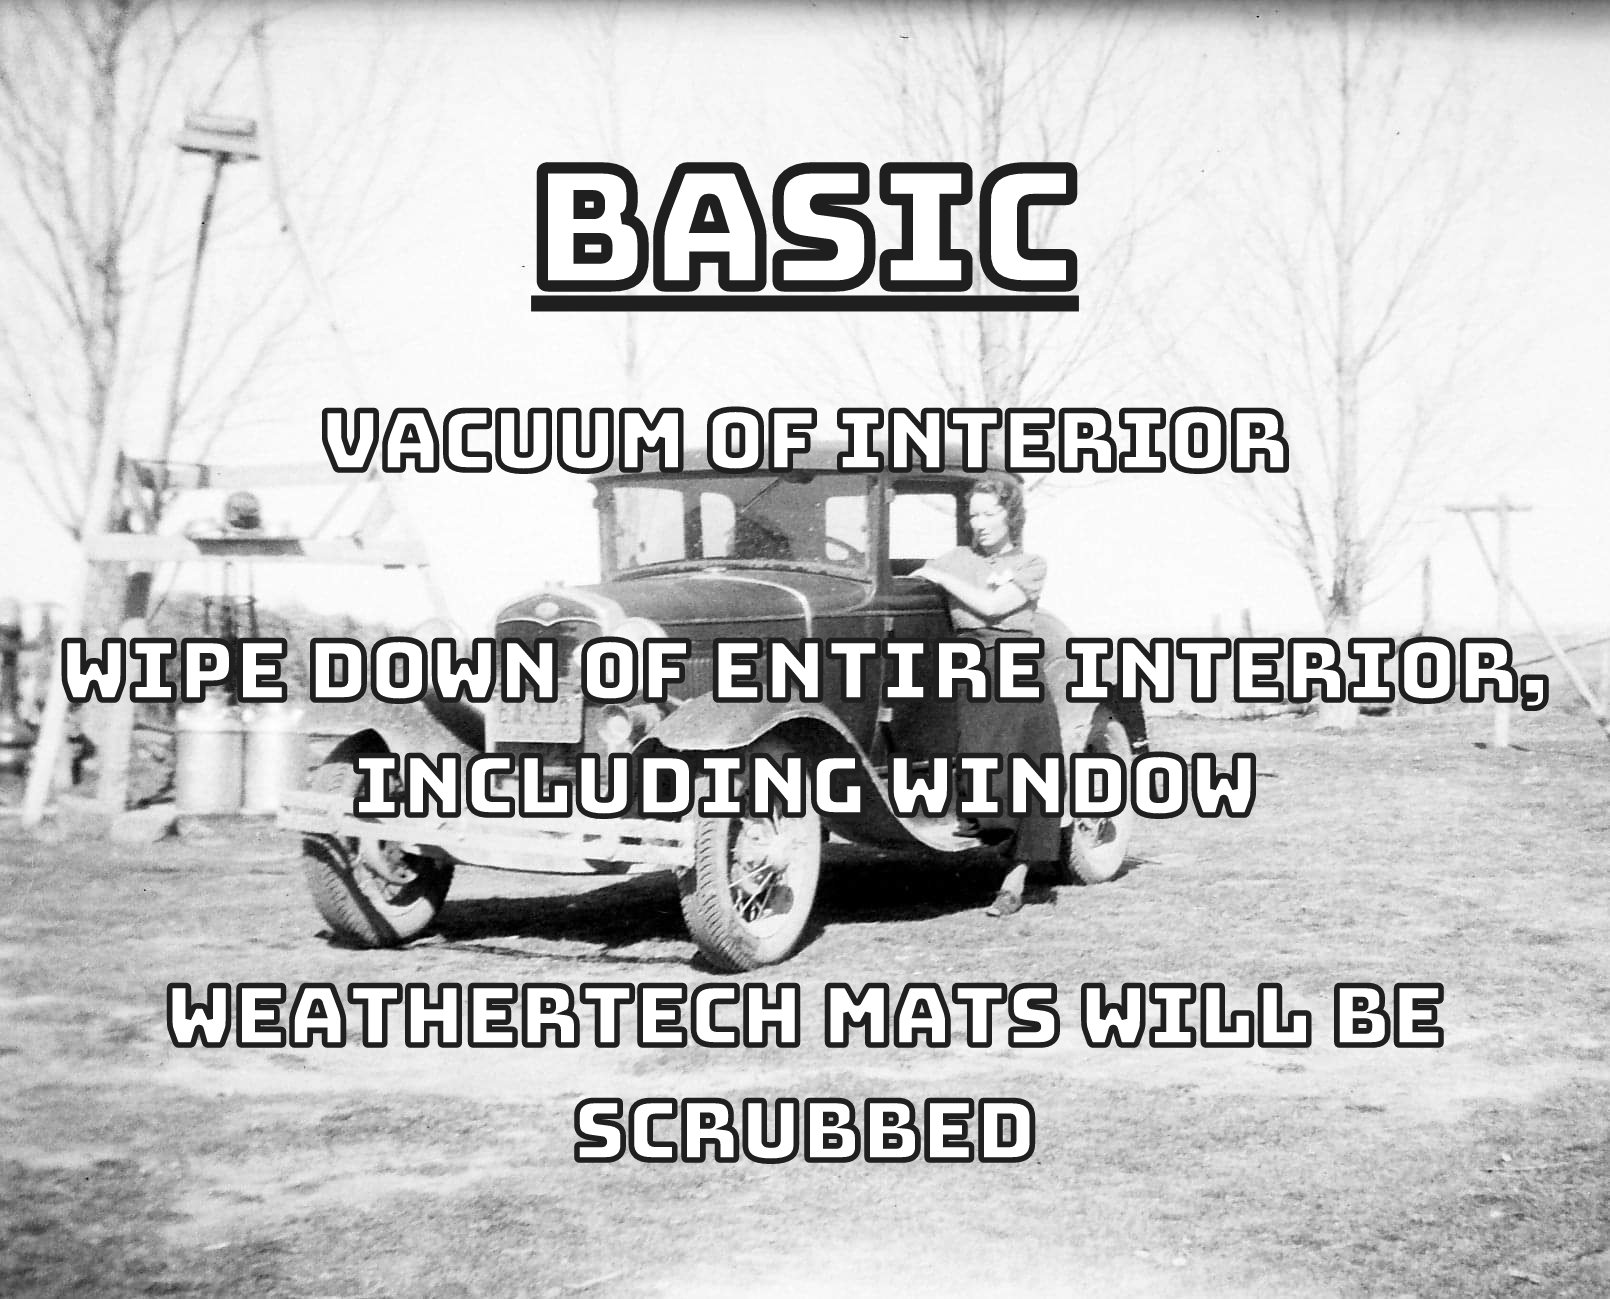
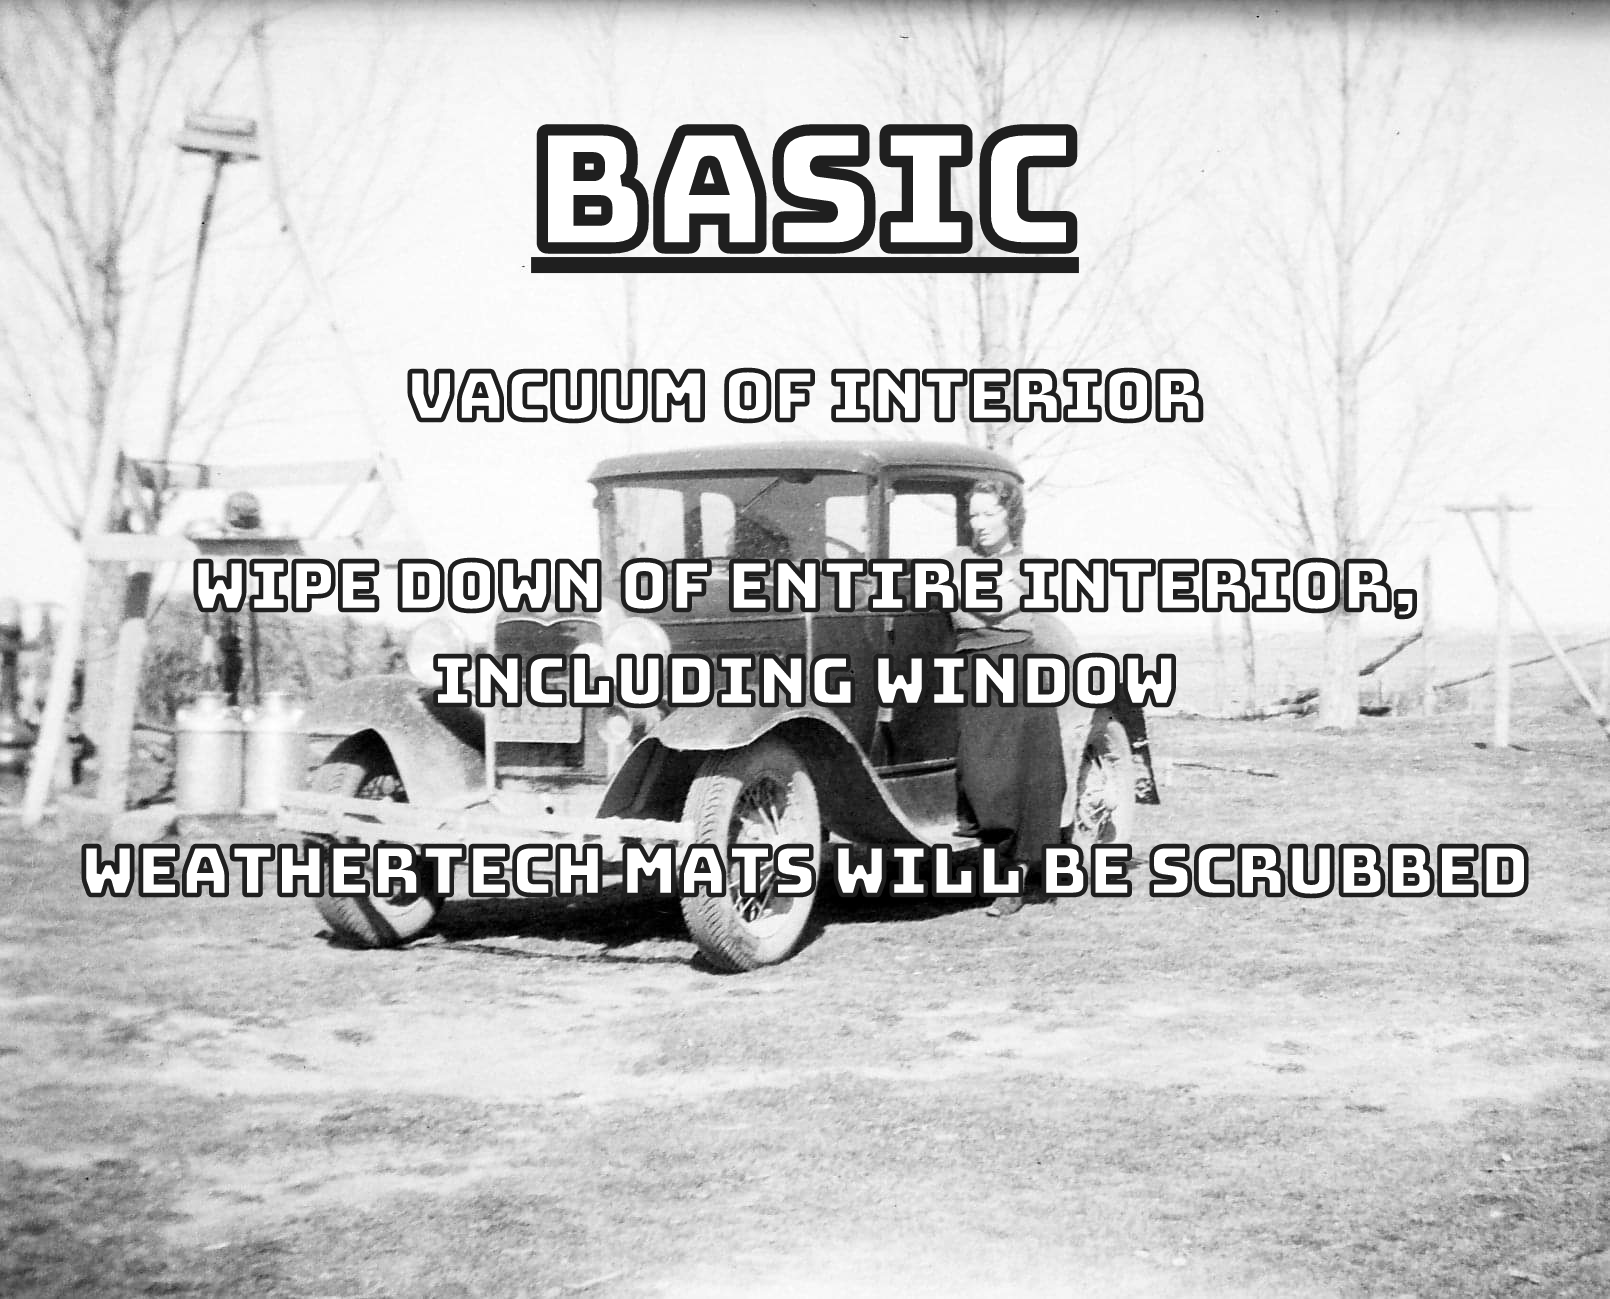
commit

diff --git a/bmdetailing/ourservices.html b/bmdetailing/ourservices.html
@@ -34,23 +34,19 @@
             <div class="cards">
             <section class="basic-card">
                 <img class="card-img" src="bmd-images/Basic.png" alt="basic car interior">
+                <ul class="listical1">
+                    <p><a href="bookappointment.html">Book Now</a></p>
+                </ul>
             </section>
             <section class="express-card">
-                <img class="card-img" src="bmd-images/Express.jpg" alt="express car interior">
-                <h2>Express </h2>
+                <img class="card-img" src="bmd-images/Express.png" alt="express car interior">
                 <ul class="listical2">
-                    <li>Removal of seats</li>
-                    <li>Stain, UV, and dust prevention used on all surfaces</li>
-                    <li>Weathertech mats will be scrubbed</li>
                     <p><a href="bookappointment.html">Book Now</a></p>
                 </ul>
             </section>
             <section class="deluxe-card">
-                <img class="card-img" src="bmd-images/Deluxe.jpg" alt="deluxe car interior">
-                <h2>Deluxe Interior</h2>
+                <img class="card-img" src="bmd-images/Deluxe.png" alt="deluxe car interior">
                 <ul class="listical3">
-                    <li>Floors, mats, and seat shampoo</li>
-                    <li>Basic and Express Interior services included</li>
                     <p><a href="bookappointment.html">Book Now</a></p>
                 </ul>
             </div>

diff --git a/bmdetailing/styles/ourservices.css b/bmdetailing/styles/ourservices.css
@@ -126,8 +126,8 @@ li {
 }
 .listical1 {
     position: absolute;
-    top: 15%;
-    left: 50%;
+    top: 24%;
+    left: 47%;
     transform: translate(-50%, -50%);
     -webkit-text-stroke: 3px black;
 }
@@ -140,8 +140,8 @@ li {
 }
 .listical2 {
     position: absolute;
-    top: 52%;
-    left: 50%;
+    top: 57%;
+    left: 47%;
     transform: translate(-50%, -50%);
     -webkit-text-stroke: 3px black;
 }
@@ -154,8 +154,8 @@ li {
 }
 .listical3 {
     position: absolute;
-    top: 87%;
-    left: 50%;
+    top: 93%;
+    left: 49%;
     transform: translate(-50%, -50%);
     -webkit-text-stroke: 3px black;
 }
